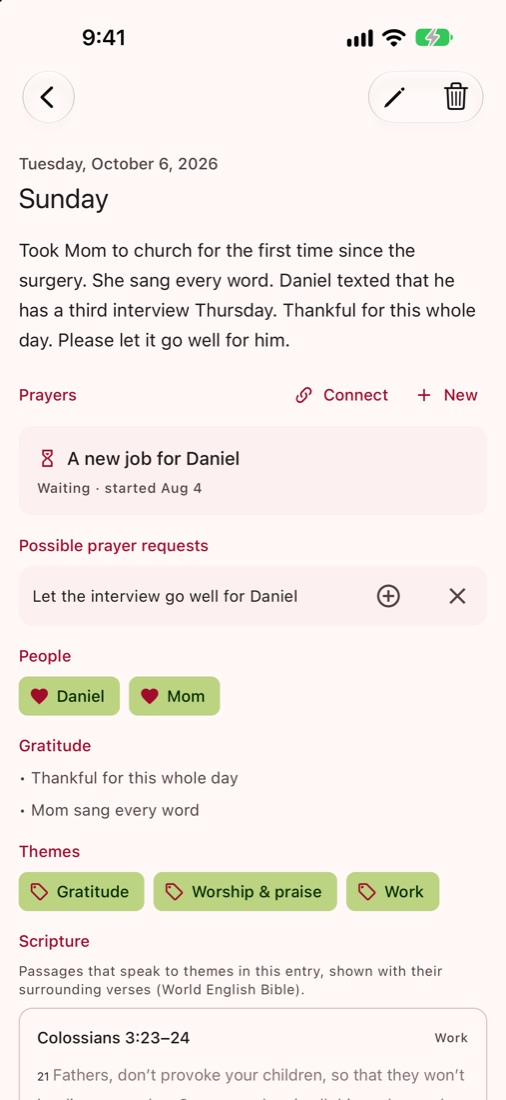
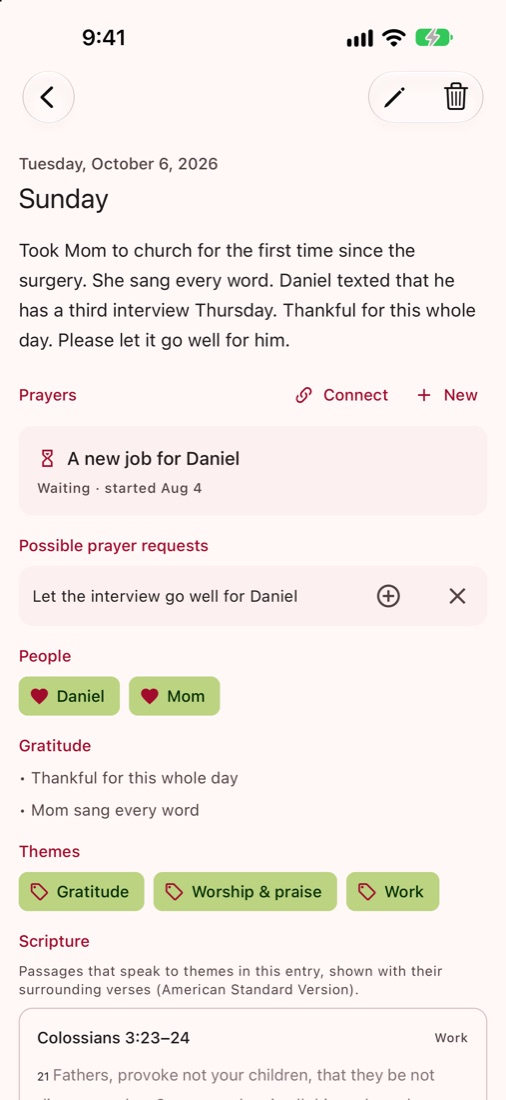
Switch Bible attribution to the American Standard Version; refresh screenshots

Changed region(s): [[0.2372, 0.9582, 0.919, 0.9891], [0.3261, 0.8964, 0.6818, 0.9273]]

diff --git a/index.html b/index.html
@@ -24,7 +24,7 @@ layout: landing
 </header>
 
 <div class="verse">
-  <blockquote class="serif">“But Mary kept all these sayings, pondering them in her heart.”<cite>Luke 2:19 · World English Bible</cite></blockquote>
+  <blockquote class="serif">“But Mary kept all these sayings, pondering them in her heart.”<cite>Luke 2:19 · American Standard Version</cite></blockquote>
 </div>
 
 <main id="how">
@@ -66,7 +66,7 @@ layout: landing
       <div class="copy">
         <div class="eyebrow">Scripture in context</div>
         <h2 class="serif">Scripture, not scripts.</h2>
-        <p>For what you're carrying, Treasured shows related passages from the full World English Bible: always the real text with the verses around it, never computer-written. It points you to Scripture and to your people. It doesn't tell you what God is saying.</p>
+        <p>For what you're carrying, Treasured shows related passages from the full American Standard Version: always the real text with the verses around it, never computer-written. It points you to Scripture and to your people. It doesn't tell you what God is saying.</p>
       </div>
       <img class="phone" loading="lazy" src="{{ '/assets/shots/4-scripture.jpg' | relative_url }}" alt="Psalm 94 shown with surrounding verses">
     </div>

diff --git a/privacy/index.md b/privacy/index.md
@@ -21,7 +21,7 @@ We cannot see, read, recover, or access your journal.
 
 If you choose to, the app downloads an on-device language model file from Hugging Face (huggingface.co). This is a one-way download of the model itself; nothing you have written is sent. Hugging Face may receive standard request information (such as your IP address) as part of serving the download, under its own privacy policy.
 
-The Bible text (World English Bible, public domain) is included in the app and needs no download.
+The Bible text (American Standard Version, 1901, public domain) is included in the app and needs no download.
 
 ## Purchases
 

diff --git a/terms/index.md b/terms/index.md
@@ -26,7 +26,7 @@ What you write is yours and stays on your device. You are responsible for keepin
 
 ## Scripture
 
-Scripture quotations are from the World English Bible, which is in the public domain.
+Scripture quotations are from the American Standard Version (1901), which is in the public domain.
 
 ## Disclaimer and limitation of liability
 
